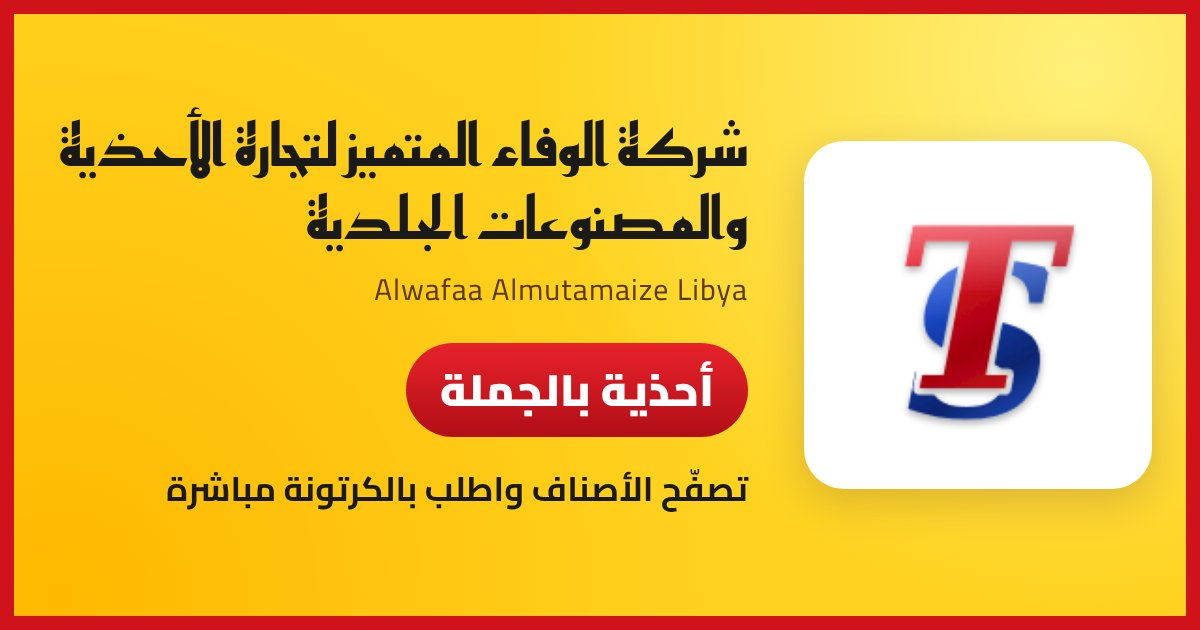
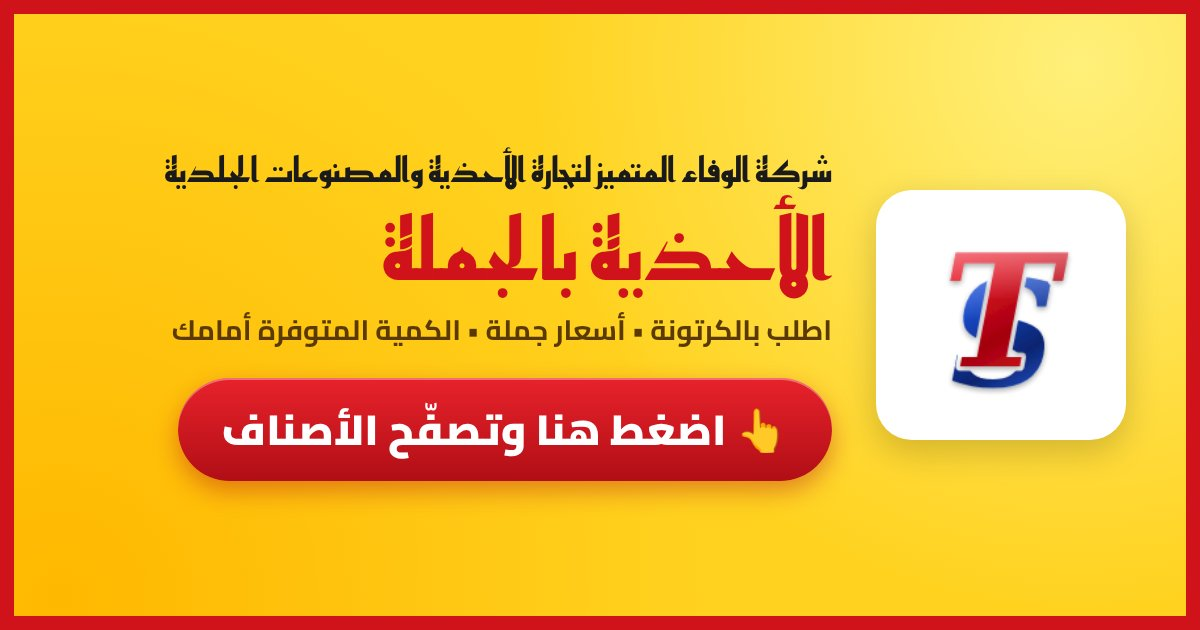
صورة إعلان قابلة للضغط في معاينة الرابط
Claude-Session: https://claude.ai/code/session_012CsH6wpRRZ1h2aPiXSQFhL

Changed region(s): [[0.0308, 0.181, 0.9867, 0.8143]]

diff --git a/index.html b/index.html
@@ -6,9 +6,9 @@
 <meta name="description" content="أحذية بالجملة — تصفّح الأصناف واطلب بالكرتونة مباشرة">
 <meta property="og:type" content="website">
 <meta property="og:url" content="https://alwafaa-libya.github.io/Shoes/">
-<meta property="og:title" content="شركة الوفاء المتميز — أحذية بالجملة">
-<meta property="og:description" content="تصفّح الأصناف واطلب بالكرتونة مباشرة">
-<meta property="og:image" content="https://alwafaa-libya.github.io/Shoes/preview.jpg?v=2">
+<meta property="og:title" content="👆 اضغط هنا وتصفّح أصناف الأحذية بالجملة">
+<meta property="og:description" content="شركة الوفاء المتميز — اطلب بالكرتونة مباشرة">
+<meta property="og:image" content="https://alwafaa-libya.github.io/Shoes/preview.jpg?v=3">
 <meta property="og:image:width" content="1200"><meta property="og:image:height" content="630">
 <meta name="twitter:card" content="summary_large_image">
 <title>الوفاء المتميز ليبيا — أحذية بالجملة</title>
